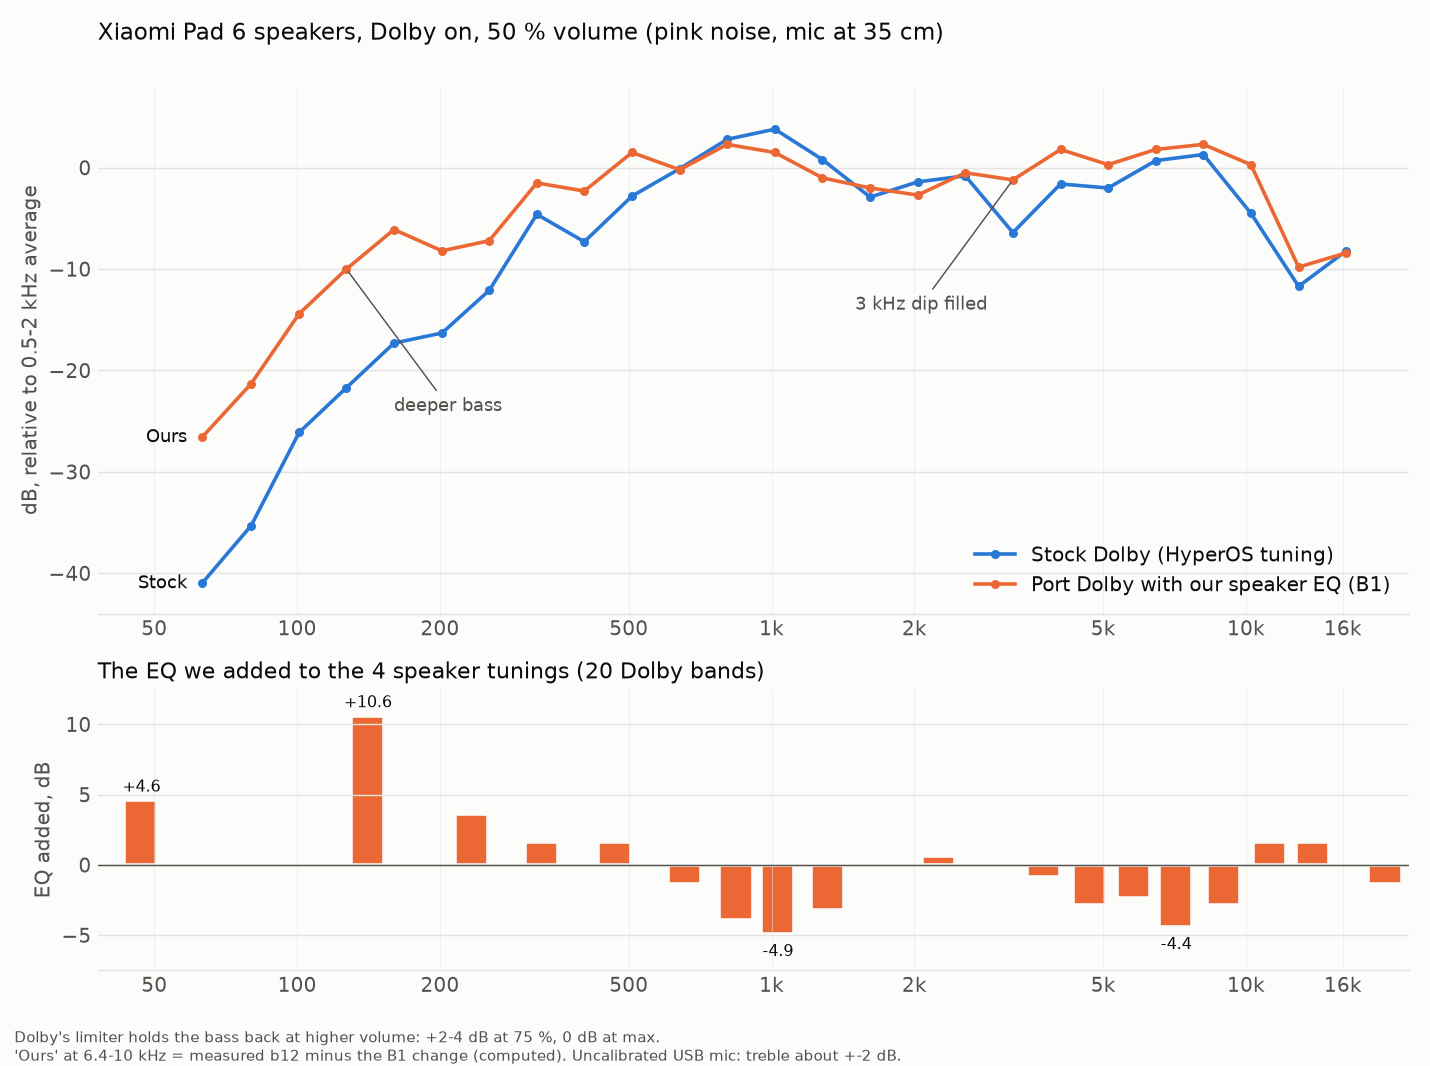
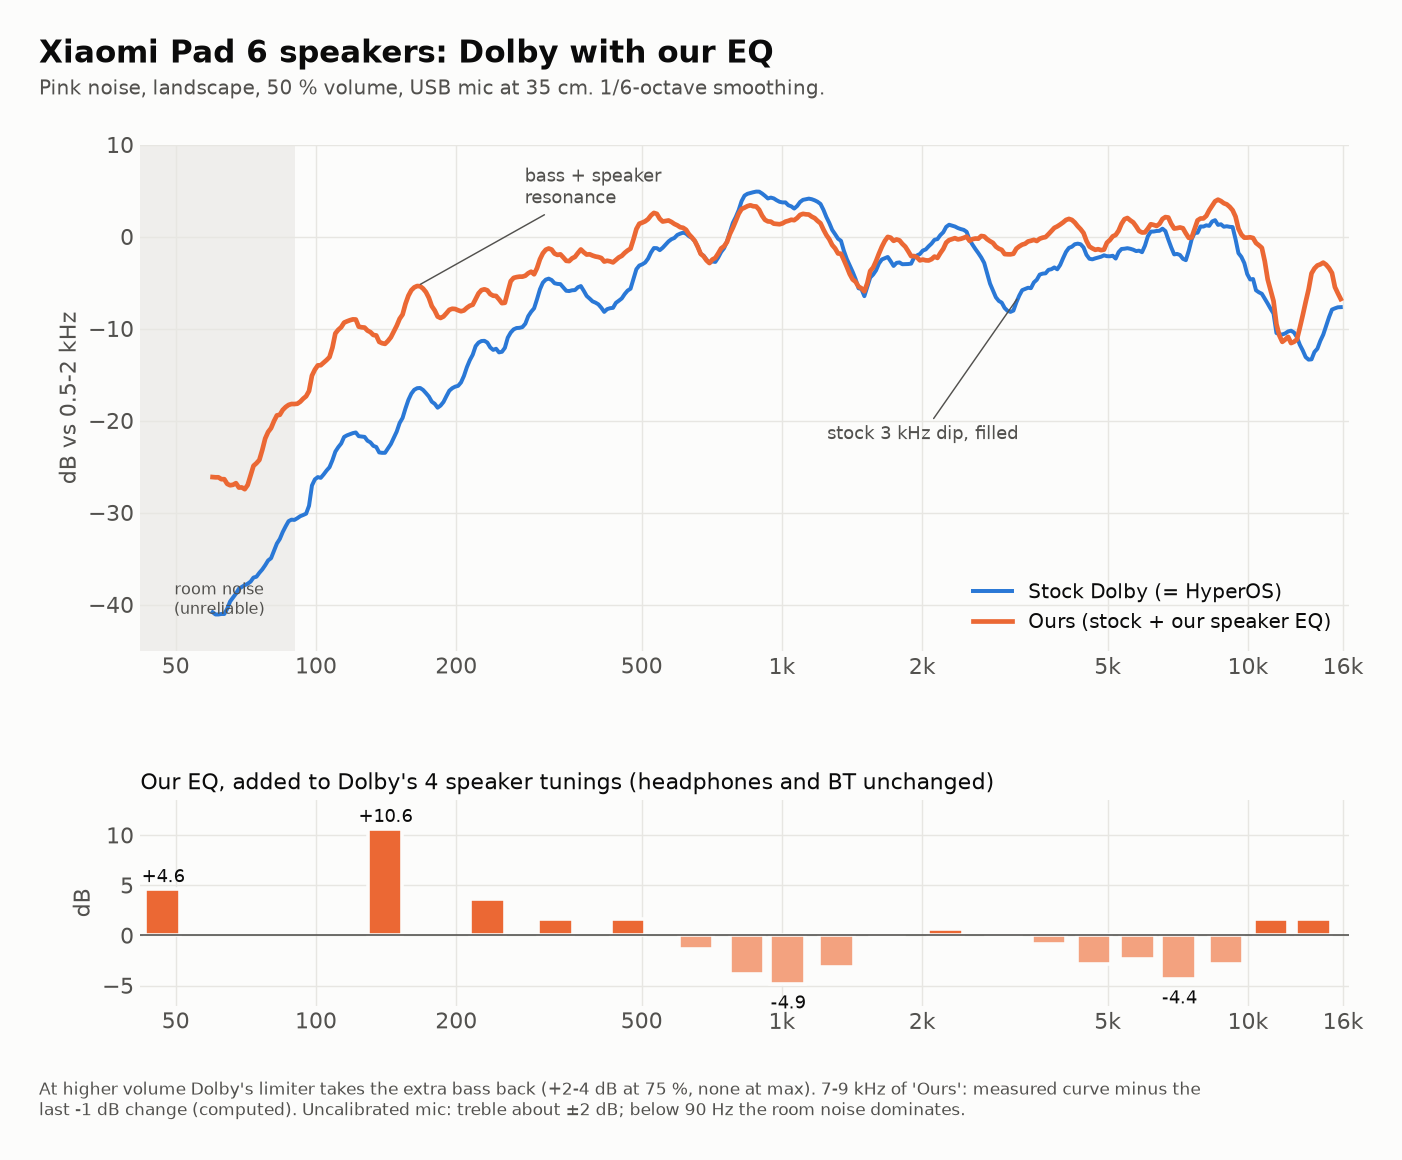
dolby-eq: new graph

diff --git a/maintainer/dolby-eq/make_graph.py b/maintainer/dolby-eq/make_graph.py
@@ -1,37 +1,38 @@
-import matplotlib
+import os, numpy as np, matplotlib
 matplotlib.use("Agg")
 import matplotlib.pyplot as plt
 from matplotlib.ticker import FixedLocator, NullLocator
-hz=[63,80,101,127,160,202,254,320,403,508,640,806,1016,1280,1613,2032,2560,3225,4064,5120,6451,8127,10240,12902,16255]
-stock=[-41.0,-35.3,-26.1,-21.7,-17.3,-16.3,-12.1,-4.6,-7.3,-2.8,-0.1,2.8,3.8,0.8,-2.9,-1.4,-0.8,-6.4,-1.6,-2.0,0.7,1.3,-4.5,-11.7,-8.2]
-b12=[-26.6,-21.3,-14.4,-10.0,-6.1,-8.2,-7.2,-1.5,-2.3,1.5,-0.2,2.3,1.5,-1.0,-2.0,-2.7,-0.5,-1.2,1.8,0.3,2.4,3.3,0.9,-9.8,-8.4]
-b1delta={6451:-0.6,8127:-1.0,10240:-0.6}
-final=[v+b1delta.get(h,0) for h,v in zip(hz,b12)]
-bands=[47,141,234,328,469,656,844,1031,1313,1688,2250,3000,3750,4688,5813,7125,9000,11250,13875,19688]
-eq=[4.62,10.62,3.62,1.62,1.62,-1.38,-3.88,-4.88,-3.17,-0.07,0.62,0.12,-0.88,-2.88,-2.38,-4.38,-2.88,1.62,1.62,-1.38]
-S="#fcfcfb"; T1="#0b0b0b"; T2="#52514e"; G="#e4e3df"; C1="#2a78d6"; C2="#eb6834"
-plt.rcParams.update({"font.family":"DejaVu Sans","font.size":11,"axes.edgecolor":G,"axes.labelcolor":T2,"xtick.color":T2,"ytick.color":T2})
-fig,(a,b)=plt.subplots(2,1,figsize=(11,8.2),height_ratios=[3,1.6],facecolor=S)
+HERE=os.path.dirname(os.path.abspath(__file__))
+d=np.load(os.path.join(HERE,"curves.npz")); g=d["grid"]
+b1=-1.0*np.exp(-0.5*(np.log2(g/7125)/0.35)**2)-1.0*np.exp(-0.5*(np.log2(g/9000)/0.35)**2)
+ours=d["ours"]+np.maximum(b1,-1.2)
+S="#fcfcfb"; T1="#0b0b0b"; T2="#52514e"; G="#e7e6e2"; C1="#2a78d6"; C2="#eb6834"; OFF="#a3a29c"
+plt.rcParams.update({"font.family":"DejaVu Sans","font.size":12})
+fig,(a,b)=plt.subplots(2,1,figsize=(12,8.6),height_ratios=[3.2,1.3],facecolor=S,gridspec_kw={"hspace":0.42})
 ticks=[50,100,200,500,1000,2000,5000,10000,16000]; lab=["50","100","200","500","1k","2k","5k","10k","16k"]
 for ax in (a,b):
-    ax.set_facecolor(S); ax.set_xscale("log"); ax.set_xlim(38,22000)
+    ax.set_facecolor(S); ax.set_xscale("log"); ax.set_xlim(42,16500)
     ax.xaxis.set_major_locator(FixedLocator(ticks)); ax.set_xticklabels(lab); ax.xaxis.set_minor_locator(NullLocator())
-    ax.grid(True,axis="y",color=G,lw=0.8); ax.grid(True,axis="x",color=G,lw=0.5,alpha=0.6)
-    for s in ("top","right","left"): ax.spines[s].set_visible(False)
-    ax.tick_params(length=0)
-a.plot(hz,stock,color=C1,lw=2,marker="o",ms=4,label="Stock Dolby (HyperOS tuning)")
-a.plot(hz,final,color=C2,lw=2,marker="o",ms=4,label="Port Dolby with our speaker EQ (B1)")
-a.text(63*0.93,stock[0],"Stock",color=T1,va="center",ha="right",fontsize=10)
-a.text(63*0.93,final[0],"Ours",color=T1,va="center",ha="right",fontsize=10)
-a.set_ylim(-44,8); a.set_ylabel("dB, relative to 0.5-2 kHz average")
-a.set_title("Xiaomi Pad 6 speakers, Dolby on, 50 % volume (pink noise, mic at 35 cm)",loc="left",color=T1,fontsize=13,pad=26)
-a.legend(loc="lower right",frameon=False,labelcolor=T1)
-a.annotate("deeper bass", (127,-10), xytext=(160,-24), color=T2, fontsize=10, arrowprops=dict(arrowstyle="-",color=T2,lw=0.8))
-a.annotate("3 kHz dip filled", (3225,-1.2), xytext=(1500,-14), color=T2, fontsize=10, arrowprops=dict(arrowstyle="-",color=T2,lw=0.8))
-b.bar(bands,eq,width=[f*0.16 for f in bands],color=[C2]*20,edgecolor=S,linewidth=2)
-b.axhline(0,color=T2,lw=0.8); b.set_ylim(-7.5,12.5); b.set_ylabel("EQ added, dB")
-b.set_title("The EQ we added to the 4 speaker tunings (20 Dolby bands)",loc="left",color=T1,fontsize=12)
-for x,y in zip(bands,eq):
-    if abs(y)>=4: b.text(x,y+(0.6 if y>0 else -1.6),"%+.1f"%y,ha="center",color=T1,fontsize=9)
-fig.text(0.01,0.005,"Dolby's limiter holds the bass back at higher volume: +2-4 dB at 75 %, 0 dB at max.\n'Ours' at 6.4-10 kHz = measured b12 minus the B1 change (computed). Uncalibrated USB mic: treble about +-2 dB.",color=T2,fontsize=8.5)
-fig.tight_layout(rect=(0,0.045,1,1)); fig.savefig(__import__("os").path.join(__import__("os").path.dirname(__import__("os").path.abspath(__file__)),"pipa-dolby-eq.png"),dpi=130,facecolor=S)
+    ax.grid(True,color=G,lw=0.8); ax.set_axisbelow(True)
+    for s in ax.spines.values(): s.set_visible(False)
+    ax.tick_params(length=0,colors=T2)
+a.axvspan(42,90,color=G,alpha=0.6,lw=0); a.text(62,-41,"room noise\n(unreliable)",ha="center",color=T2,fontsize=9)
+a.plot(g,d["stock"],color=C1,lw=2.2,label="Stock Dolby (= HyperOS)")
+a.plot(g,ours,color=C2,lw=2.6,label="Ours (stock + our speaker EQ)")
+a.set_ylim(-45,10); a.set_ylabel("dB vs 0.5-2 kHz",color=T2)
+fig.suptitle("Xiaomi Pad 6 speakers: Dolby with our EQ",x=0.06,ha="left",y=0.975,fontsize=17,color=T1,fontweight="bold")
+fig.text(0.06,0.925,"Pink noise, landscape, 50 % volume, USB mic at 35 cm. 1/6-octave smoothing.",color=T2,fontsize=11)
+a.legend(loc="lower right",frameon=False,labelcolor=T1,fontsize=11)
+for f,t in ((165,"bass + speaker\nresonance"),):
+    y=np.interp(f,g,ours); a.annotate(t,(f,y),xytext=(f*1.7,y+9),color=T2,fontsize=10,arrowprops=dict(arrowstyle="-",color=T2,lw=0.8))
+y=np.interp(3225,g,d["stock"]); a.annotate("stock 3 kHz dip, filled",(3225,y),xytext=(1250,-22),color=T2,fontsize=10,arrowprops=dict(arrowstyle="-",color=T2,lw=0.8))
+bands=np.array([47,141,234,328,469,656,844,1031,1313,1688,2250,3000,3750,4688,5813,7125,9000,11250,13875,19688])
+eq=np.array([4.62,10.62,3.62,1.62,1.62,-1.38,-3.88,-4.88,-3.17,-0.07,0.62,0.12,-0.88,-2.88,-2.38,-4.38,-2.88,1.62,1.62,-1.38])
+m=bands<=16500
+b.bar(bands[m],eq[m],width=bands[m]*0.17,color=np.where(eq[m]>=0,C2,"#f3a27f"),edgecolor=S,linewidth=2)
+b.axhline(0,color=T2,lw=0.9); b.set_ylim(-7,13.5); b.set_yticks([-5,0,5,10]); b.set_ylabel("dB",color=T2)
+b.set_title("Our EQ, added to Dolby's 4 speaker tunings (headphones and BT unchanged)",loc="left",color=T1,fontsize=12)
+for x,y in zip(bands[m],eq[m]):
+    if abs(y)>=4: b.text(x,y+0.7 if y>0 else y-2.4,"%+.1f"%y,ha="center",color=T1,fontsize=10)
+fig.text(0.06,0.012,"At higher volume Dolby's limiter takes the extra bass back (+2-4 dB at 75 %, none at max). 7-9 kHz of 'Ours': measured curve minus the\nlast -1 dB change (computed). Uncalibrated mic: treble about ±2 dB; below 90 Hz the room noise dominates.",color=T2,fontsize=9.5)
+fig.savefig(os.path.join(HERE,"pipa-dolby-eq.png"),dpi=130,facecolor=S,bbox_inches="tight",pad_inches=0.3)

diff --git a/maintainer/dolby-eq/README.md b/maintainer/dolby-eq/README.md
@@ -5,7 +5,7 @@ the stock HyperOS Dolby sound, a bit more "fun" (Harman/JBL-like): deeper bass, 
 
 ![Stock Dolby vs our speaker EQ](pipa-dolby-eq.png)
 
-`make_graph.py` draws it from the measurement table.
+`make_graph.py` draws it from `curves.npz` (smoothed curves from the pink-noise recordings).
 
 ## Use
 
